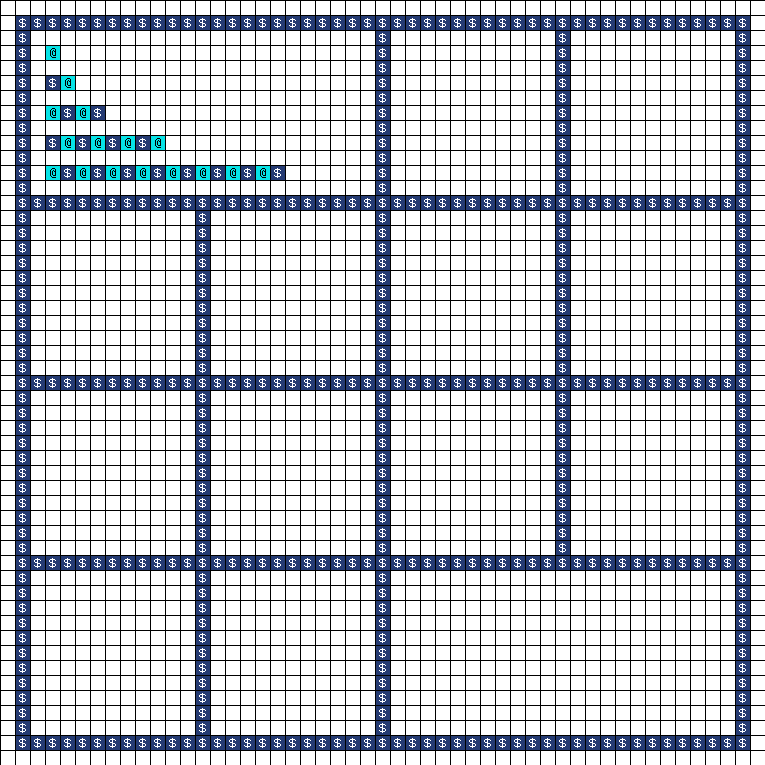
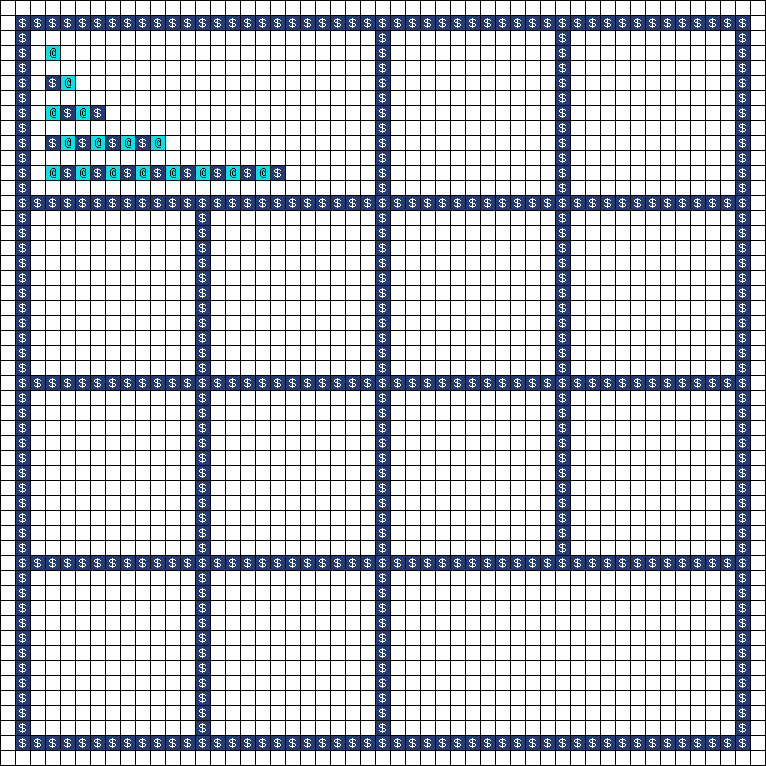
draw left and bottome grid lines

Changed region(s): [[0.0, 0.0, 1.0, 1.0]]

diff --git a/PiDay.php b/PiDay.php
@@ -23,8 +23,8 @@ class PiDay
     public function __construct($pixelsPerSquare = 15)
     {
         $this->pixelsPerSquare = $pixelsPerSquare;
-        $this->imageWidth = $this->xSquares * $this->pixelsPerSquare;
-        $this->imageHeight = $this->ySquares * $this->pixelsPerSquare;
+        $this->imageWidth = $this->xSquares * $this->pixelsPerSquare + 1;
+        $this->imageHeight = $this->ySquares * $this->pixelsPerSquare + 1;
     }
 
     public function run()
@@ -65,7 +65,7 @@ class PiDay
 
     public function drawGrid($color)
     {
-        for ($x = 0; $x < $this->xSquares; $x++) {
+        for ($x = 0; $x <= $this->xSquares; $x++) {
             imageline(
                 $this->image,
                 $x * $this->pixelsPerSquare, // x1
@@ -76,7 +76,7 @@ class PiDay
             );
         }
 
-        for ($y = 0; $y < $this->ySquares; $y++) {
+        for ($y = 0; $y <= $this->ySquares; $y++) {
             imageline(
                 $this->image,
                 0, // x1
